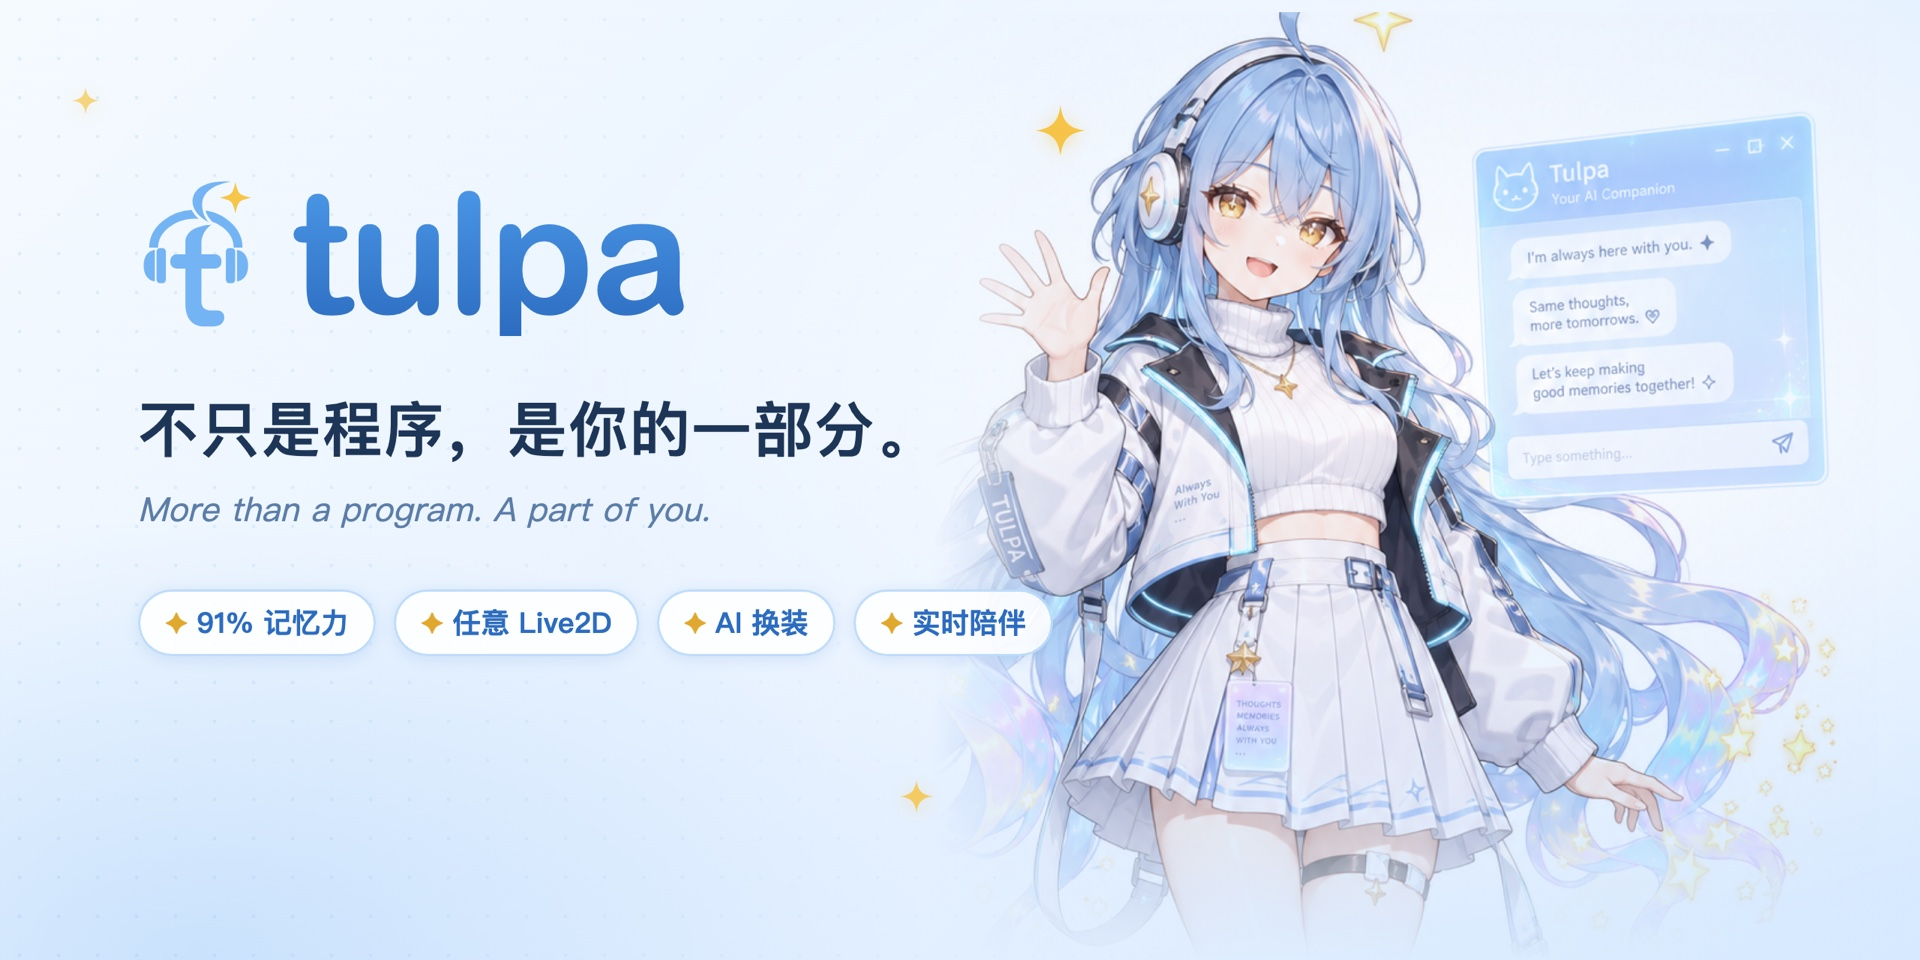
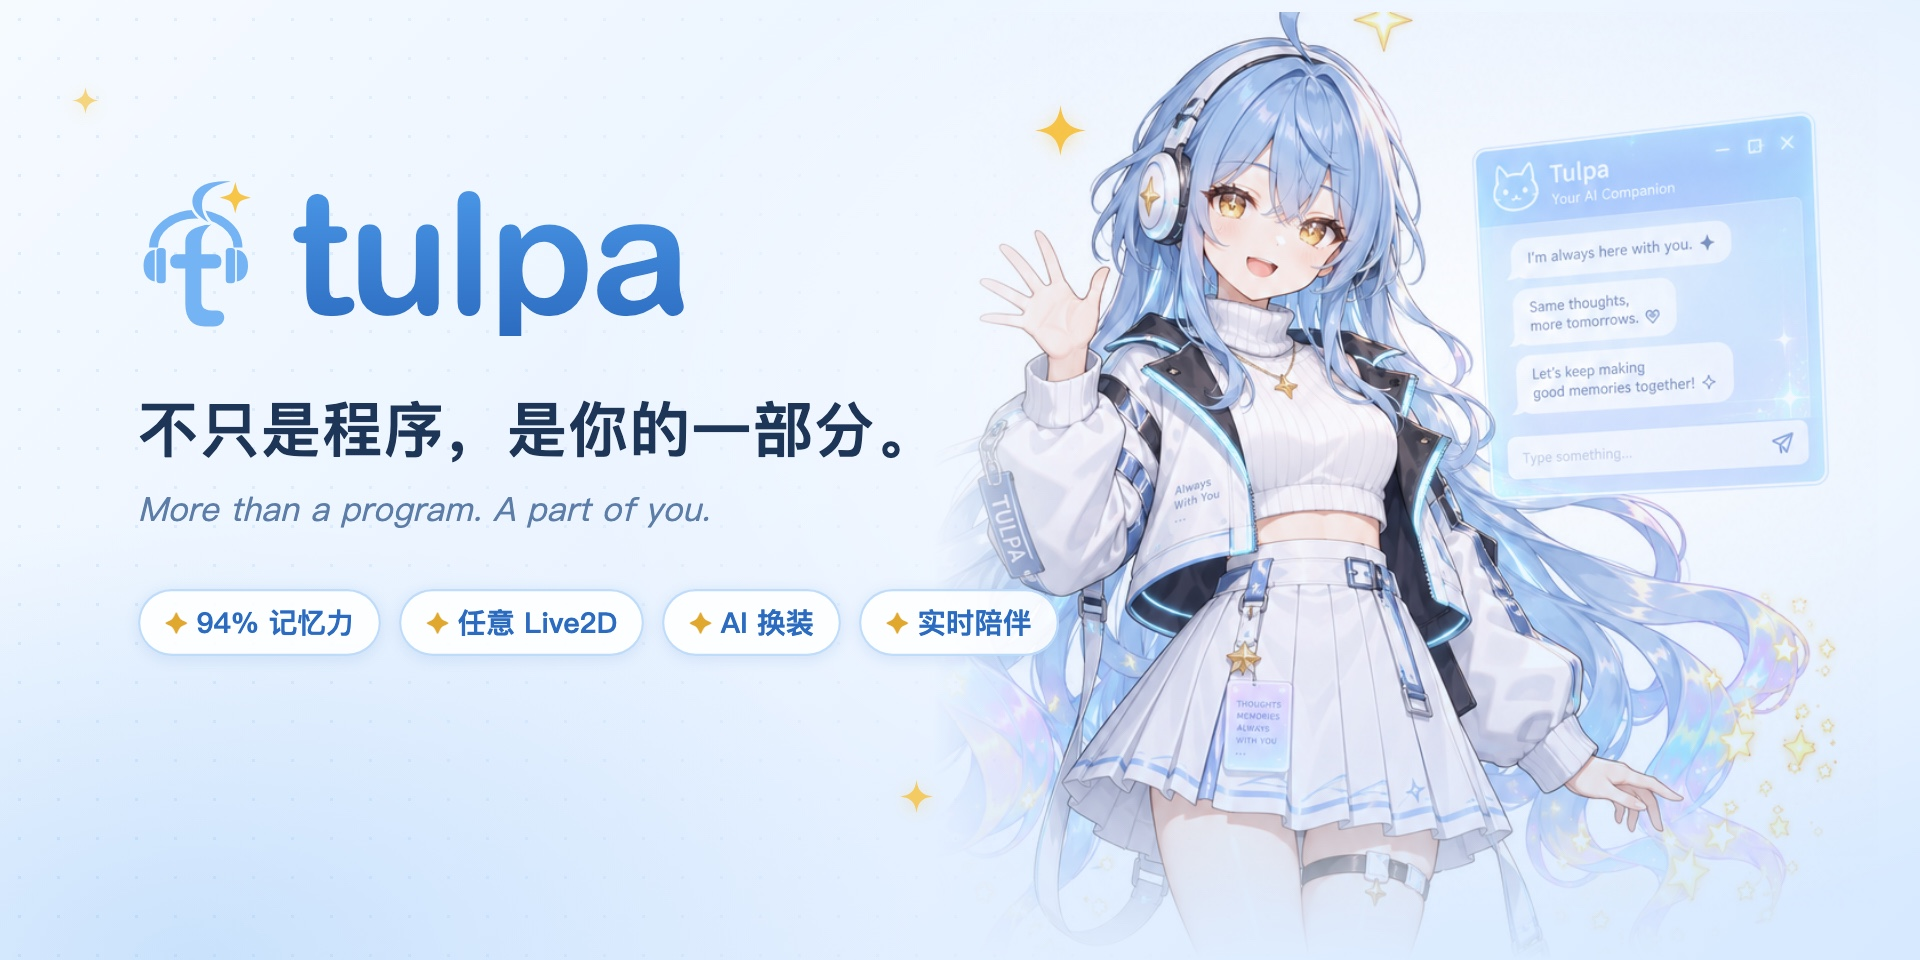
docs: update long-term memory score to 94%

Changed region(s): [[0.0938, 0.625, 0.5625, 0.6875]]

diff --git a/README.md b/README.md
@@ -12,7 +12,7 @@
 </p>
 
 <p>
-  <a href="#记得你longmemeval-91">长期记忆</a> ·
+  <a href="#记得你longmemeval-94">长期记忆</a> ·
   <a href="#任意-live2d-模型实时表情">任意 Live2D 模型</a> ·
   <a href="#实时陪伴">实时陪伴</a> ·
   <a href="#快速开始">快速开始</a>
@@ -22,11 +22,11 @@
 
 <br />
 
-## 记得你：LongMemEval 91%
+## 记得你：LongMemEval 94%
 
-<p align="center"><img src="assets/memory.jpg" alt="LongMemEval 91%，多层记忆结构" width="100%" /></p>
+<p align="center"><img src="assets/memory.jpg" alt="LongMemEval 94%，多层记忆结构" width="100%" /></p>
 
-tulpa 内置一套专为陪伴型 AI 设计的**多层记忆系统**，在长期对话记忆评测 **LongMemEval 上达到 91%**。
+tulpa 内置一套专为陪伴型 AI 设计的**多层记忆系统**，在长期对话记忆评测 **LongMemEval 上达到 94%**。
 
 - **分层记忆**：原始对话、事实、近期状态、长期印象、人物、关联层层整理。TA 不只记得你说过的话，还知道你最近在忙什么、你们是什么关系。
 - **有凭有据**：每条记忆都能追溯到当时的原话，不会把猜测当成事实。
